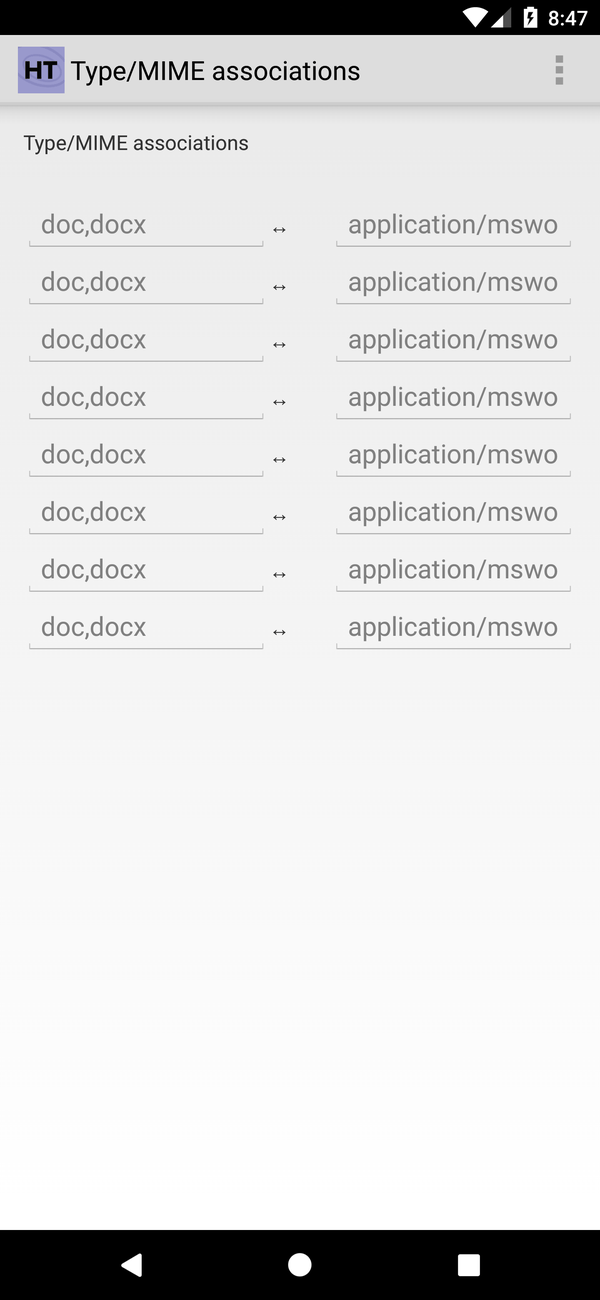
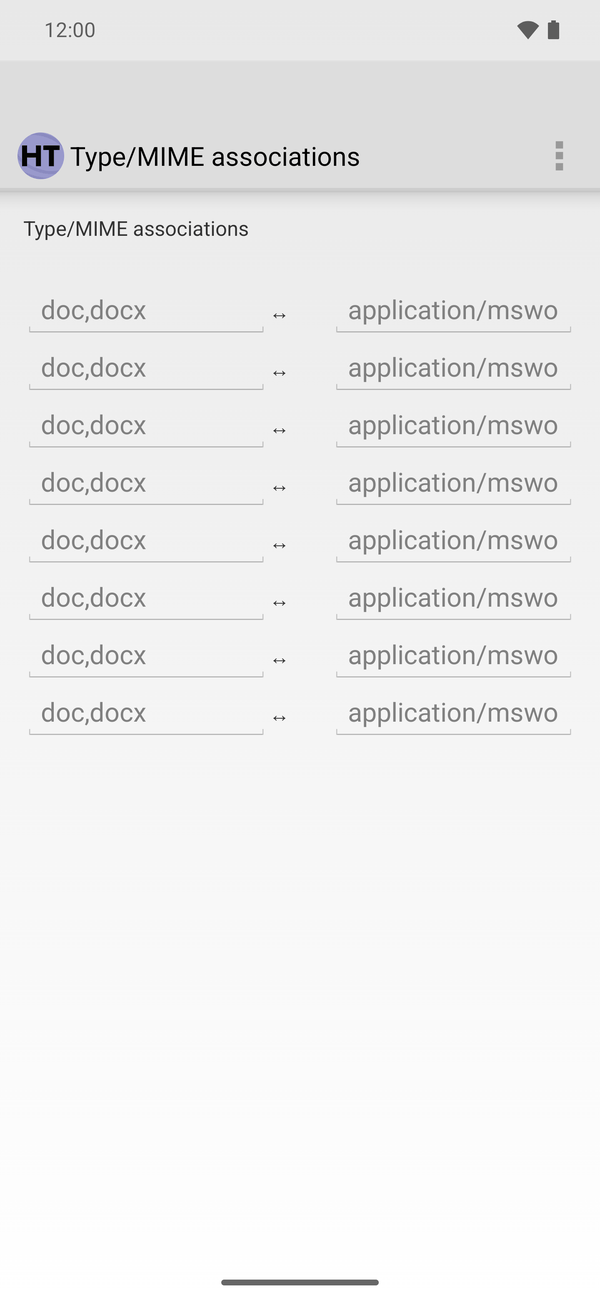
Reshoot the Android set on API 36 and correct the first-launch prose
The API 25 set showed system chrome three releases behind, and its first
screen was Android's own storage dialog. From API 30 the app asks for
all-files access through a dialog of its own and hands off to Settings for
the grant, so the guide's "Android asks for permission ... tap Allow" was
wrong on every count, including the claim that refusing stops the app
saving. Panel geometry is unchanged, so no dimension moves.

diff --git a/html/guide.html b/html/guide.html
@@ -94,10 +94,12 @@ itself down once those pings stop.</p>
 scripted. The <a href="cmdguide.html">command-line guide</a> covers that side.</p>
 
 <div class="note" data-for="droid" id="droid-first-launch">
-	<p><b>First launch.</b> Android asks for permission to store mirrors on your device. Without
-	it the app cannot save anything, so tap <b>Allow</b>.</p>
+	<p><b>First launch.</b> HTTrack offers to take all-files access, which saves your mirrors in a
+	public HTTrack folder other apps can open; tap <b>OK</b> and Android's own All files access
+	screen opens to make the grant. <b>Not now</b> also works, but mirrors then stay in a private
+	folder Android erases if you uninstall HTTrack or clear its storage.</p>
 	<figure>
-		<img data-for="droid" src="img/guide-droid-permission.png" alt="Android storage permission dialog" width="600" height="1300">
+		<img data-for="droid" src="img/guide-droid-permission.png" alt="HTTrack asking for all-files access" width="600" height="1300">
 	</figure>
 	<p>If an older release left mirrors behind, a second prompt offers to bring them in. Tap
 	<b>Import</b> to move them, or <b>Not now</b>.</p>
